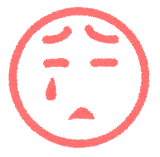
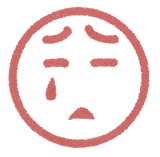
Color improved

diff --git a/app/assets/stylesheets/comments.scss b/app/assets/stylesheets/comments.scss
@@ -15,10 +15,10 @@ $media-desktop: 920px;
 $media-tablet: 768px;
 $media-phone: 450px;
 
-$success: #07d26c;
-$info: #80ccff;
-$warning: #ffcc00;
-$danger: #ff3333;
+$success: #5cb85c;
+$info: #5bc0de;
+$warning: #f0ad4e;
+$danger: #d9534f;
 
 
 /************************************************

diff --git a/app/assets/stylesheets/header_footer.scss b/app/assets/stylesheets/header_footer.scss
@@ -10,10 +10,10 @@ $media-desktop: 920px;
 $media-tablet: 768px;
 $media-phone: 450px;
 
-$success: #07d26c;
-$info: #80ccff;
-$warning: #ffcc00;
-$danger: #ff3333;
+$success: #5cb85c;
+$info: #5bc0de;
+$warning: #f0ad4e;
+$danger: #d9534f;
 
 /************************************************
 
